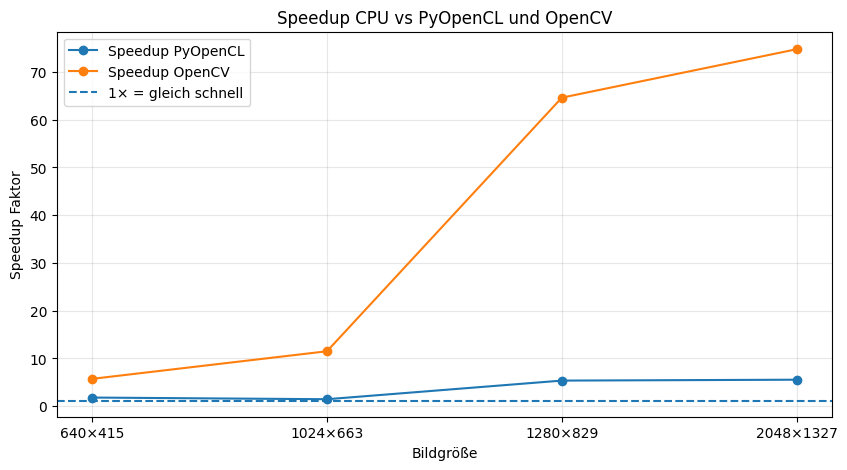
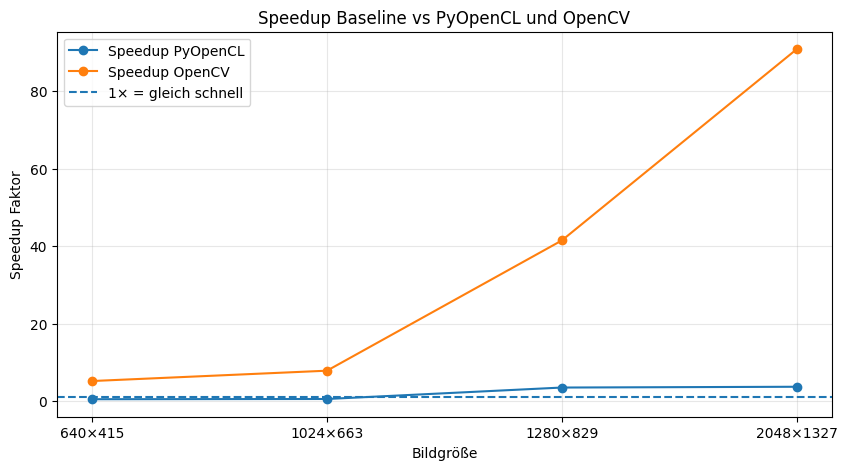
laptop 1 pics + numbers updated

diff --git a/README.md b/README.md
@@ -22,7 +22,7 @@ Es werden 3 Varianten verglichen werden:
 | Variante | Name                 | Aufgabe                                   |
 | -------- | ----------------------- | ------------------------------------------- |
 | 1        | Baseline / CPU      |  ohne Parallelisierung       |
-| 2        | OpenCV/ CPU |  optimierte Bibliothek für Bildverarbeitung |
+| 2        | OpenCV/ CPU |  optimierte C++ Bibliothek für Bildverarbeitung |
 | 3        | PyOpenCL / GPU |  mit Parallelisierung             |
 
 ## Ergebnisse:
@@ -72,27 +72,30 @@ d.
 
 <table width="100%">
   <tr>
-    <td colspan="2" align="center">
+    <td align="center">
       <img src="images_output/Laptop1_runtime2.png" width="70%">
     </td>
   </tr>
   <tr>
-    <td colspan="2" align="center">
-      Laptop 1: Laufzeitvergleich CPU vs. PyOpenCL vs. OpenCV
-    </td>
+    <td align="center">Laptop 1: Laufzeitvergleich Baseline vs. PyOpenCL vs. OpenCV</td>
   </tr>
 
   <tr>
-    <td width="50%">
-      <img src="images_output/Laptop1_speedup.png" width="100%">
-    </td>
-    <td width="50%">
-      <img src="images_output/Laptop1_speedup2.png" width="100%">
+    <td align="center">
+      <img src="images_output/Laptop1_speedup.png" width="70%">
     </td>
   </tr>
   <tr>
-    <td align="center">Laptop 1: Speedup CPU vs. PyOpenCL</td>
-    <td align="center">Laptop 1: Speedup CPU vs. PyOpenCL und OpenCV</td>
+    <td align="center">Laptop 1: Speedup Baseline vs. PyOpenCL</td>
+  </tr>
+
+  <tr>
+    <td align="center">
+      <img src="images_output/Laptop1_speedup2.png" width="70%">
+    </td>
+  </tr>
+  <tr>
+    <td align="center">Laptop 1: Speedup Baseline vs. PyOpenCL und OpenCV</td>
   </tr>
 </table>
 
@@ -100,20 +103,39 @@ d.
 
 <table width="100%">
   <tr>
-    <td width="50%"><img src="images_output/Laptop2_runtime.png" width="100%"></td>
-    <td width="50%"><img src="images_output/Laptop2_speedup.png" width="100%"></td>
+    <td align="center">
+      <img src="images_output/Laptop2_runtime.png" width="70%">
+    </td>
   </tr>
   <tr>
-    <td align="center">Laptop 2: Laufzeitvergleich CPU vs. PyOpenCL</td>
-    <td align="center">Laptop 2: Speedup CPU vs. PyOpenCL</td>
+    <td align="center">Laptop 2: Laufzeitvergleich Baseline vs. PyOpenCL</td>
+  </tr>
+
+  <tr>
+    <td align="center">
+      <img src="images_output/Laptop2_runtime2.png" width="70%">
+    </td>
   </tr>
   <tr>
-    <td width="50%"><img src="images_output/Laptop2_runtime2.png" width="100%"></td>
-    <td width="50%"><img src="images_output/Laptop2_speedup2.png" width="100%"></td>
+    <td align="center">Laptop 2: Laufzeitvergleich Baseline vs. PyOpenCL vs. OpenCV</td>
+  </tr>
+
+  <tr>
+    <td align="center">
+      <img src="images_output/Laptop2_speedup.png" width="70%">
+    </td>
   </tr>
   <tr>
-    <td align="center">Laptop 2: Laufzeitvergleich CPU vs. PyOpenCL vs. OpenCV</td>
-    <td align="center">Laptop 2: Speedup CPU vs. PyOpenCL und OpenCV</td>
+    <td align="center">Laptop 2: Speedup Baseline vs. PyOpenCL</td>
+  </tr>
+
+  <tr>
+    <td align="center">
+      <img src="images_output/Laptop2_speedup2.png" width="70%">
+    </td>
+  </tr>
+  <tr>
+    <td align="center">Laptop 2: Speedup Baseline vs. PyOpenCL und OpenCV</td>
   </tr>
 </table>
 
@@ -121,10 +143,10 @@ d.
 
 | Laptop | Bildgröße | CPU-Zeit in s | PyOpenCL-Zeit in s | OpenCV-Zeit in s | Speedup PyOpenCL | Speedup OpenCV |
 | ------ | --------: | ------------: | -----------------: | ---------------: | ----------------: | -------------: |
-| Laptop 1 | 640×415 | 0.001519 | 0.000843 | 0.000266 | 1.803074 | 5.717592 |
-| Laptop 1 | 1024×663 | 0.004478 | 0.003081 | 0.000389 | 1.453387 | 11.498905 |
-| Laptop 1 | 1280×829 | 0.036199 | 0.006760 | 0.000560 | 5.354889 | 64.600783 |
-| Laptop 1 | 2048×1327 | 0.080978 | 0.014617 | 0.001083 | 5.539958 | 74.748139 |
+| Laptop 1 | 640×415 | 0.001495 | 0.002702 | 0.000285 | 0.553358 | 5.245396 |
+| Laptop 1 | 1024×663 | 0.004629 | 0.007546 | 0.000585 | 0.613468 | 7.912068 |
+| Laptop 1 | 1280×829 | 0.036434 | 0.010217 | 0.000878 | 3.566122 | 41.498952 |
+| Laptop 1 | 2048×1327 | 0.098643 | 0.026186 | 0.001086 | 3.766991 | 90.818942 |
 | Laptop 2 | 640×415 | 0.006263 | 0.003250 | 0.000221 | 1.927281 | 28.357249 |
 | Laptop 2 | 1024×663 | 0.015714 | 0.005481 | 0.000324 | 2.866923 | 48.536677 |
 | Laptop 2 | 1280×829 | 0.026051 | 0.006350 | 0.001158 | 4.102779 | 22.491517 |
@@ -133,7 +155,7 @@ d.
 ## Interpretation
 Die Ergebnisse zeigen deutliche Unterschiede zwischen den drei Implementierungsvarianten.
 
-- Die einfache CPU-Baseline ist die langsamste Variante, besonders bei größeren Bildern. Das ist zu erwarten, weil das Bild Schritt für Schritt mit NumPy-Operationen auf der CPU verarbeitet wird. Dabei werden große Arrays mehrfach gelesen und geschrieben, was zusätzliche Speicherzugriffe und Laufzeit verursacht.
+- Die Baseline ist die langsamste Variante, besonders bei größeren Bildern. Das ist zu erwarten, weil das Bild Schritt für Schritt mit NumPy-Operationen auf der CPU verarbeitet wird. Dabei werden große Arrays mehrfach gelesen und geschrieben, was zusätzliche Speicherzugriffe und Laufzeit verursacht.
 
 - PyOpenCL ist auf beiden Laptops schneller als die Baseline. Der Vorteil wird vor allem bei größeren Bildern sichtbar, weil mehr Pixel parallel auf der GPU verarbeitet werden können. Gleichzeitig hat PyOpenCL aber auch Overhead. Die Bilddaten müssen in ein eindimensionales Array umgewandelt, in GPU-Buffer kopiert, vom OpenCL-Kernel verarbeitet und anschließend wieder in den Arbeitsspeicher zurückkopiert werden. Bei kleinen Bildern wirkt sich dieser Overhead stärker aus, wodurch der Speedup kleiner sein kann. Ein zentraler Punkt war, dass in einer früheren Version das Histogramm (8c) noch mit `np.bincount` auf der CPU berechnet wurde, obwohl 8a und 8b bereits auf der GPU liefen. Nach der Umstellung auf einen eigenen OpenCL-Kernel mit atomaren Operationen (`atomic_inc`) wird nun auch das Histogramm vollständig parallel auf der GPU berechnet. Dadurch stieg der Speedup von PyOpenCL gegenüber der Baseline deutlich an, besonders bei größeren Bildern (z. B. Laptop 2, 2048×1327: Speedup von 3.60 auf 6.46), da weniger Daten zwischen CPU und GPU transferiert werden mussten und der CPU-Anteil im PyOpenCL-Pfad entfiel.
 